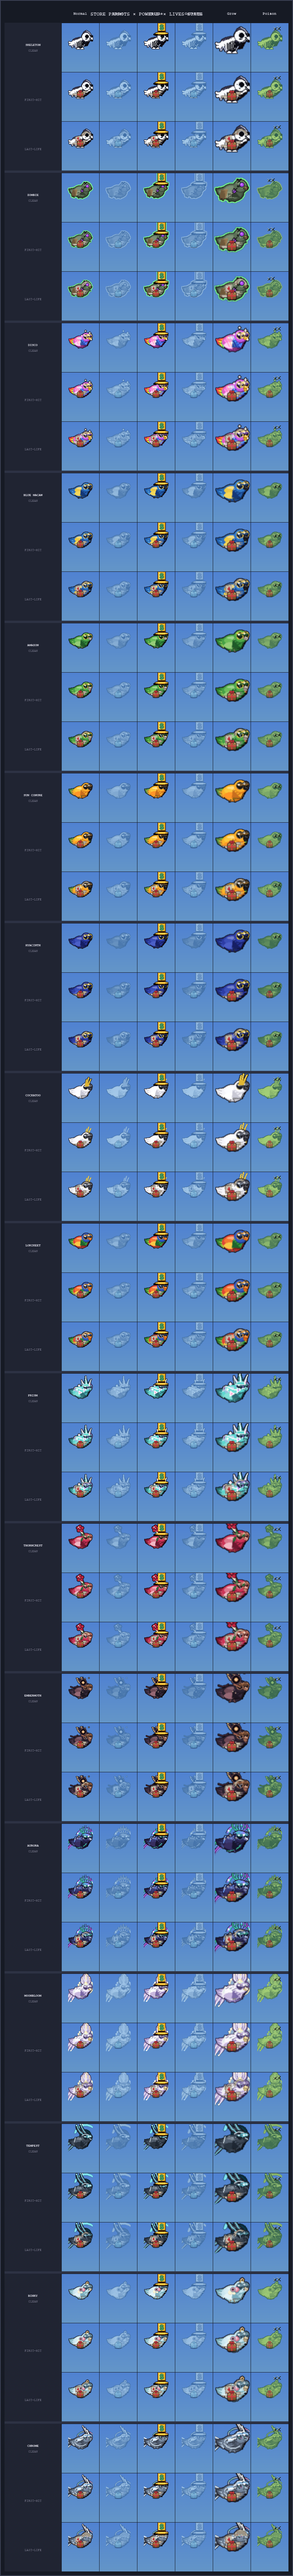
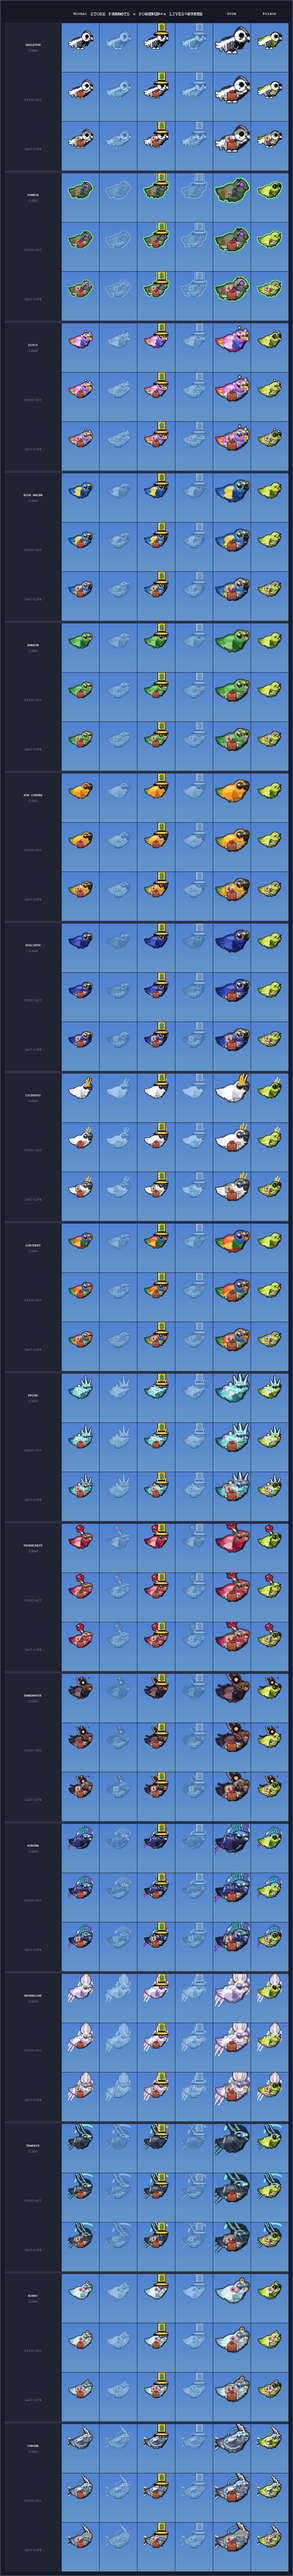
Rebuild Poison column with chartreuse body + skin accessories
Replace the tint approach with a proper palette rebuild:
- No-element skins (bluegold, amazon, sunconure, hyacinth, lorikeet):
  use existing P_CHARTREUSE macaw + X-eyes (unchanged from original)
- Element skins (zombie, skeleton, disco, cockatoo, aurora, etc.):
  build P_CHARTREUSE body as the poison base, then composite the skin's
  own accessories (aura rings, bones, crest, wings, paint_fn/back_fn)
  on top + X-eyes — matching the user's intent of "same poison appearance
  but with their elements"

Restores _build_poison_hurt for no-element skins; adds _build_poison_skin
for element skins with skeleton/zombie/composite code paths.

Changed region(s): [[0.8682, 0.0, 0.9612, 0.9979]]

diff --git a/docs/render_store_skin_powerup_lives_grid.py b/docs/render_store_skin_powerup_lives_grid.py
@@ -151,35 +151,113 @@ def _ghost_tint(img):
         img.set_alpha(170)
 
 
-def _poison_tint(img):
-    """Colorize to chartreuse preserving per-pixel luminance; handles SRCALPHA."""
-    arr = sa.pixels3d(img)
-    f = arr.astype(np.float32)
-    lum = f[:, :, 0] * 0.299 + f[:, :, 1] * 0.587 + f[:, :, 2] * 0.114
-    lum_n = lum / 255.0
-    dark   = np.array([30,  75, 10], np.float32)
-    bright = np.array([200, 240, 75], np.float32)
-    for c in range(3):
-        f[:, :, c] = dark[c] + lum_n * (bright[c] - dark[c])
-    arr[:] = f.clip(0, 255).astype(np.uint8)
-    del arr
-    if img.get_flags() & pygame.SRCALPHA:
-        alpha = sa.pixels_alpha(img)
-        alpha[:] = (alpha.astype(np.float32) * (170 / 255)).clip(0, 255).astype(np.uint8)
-        del alpha
+def _build_poison_hurt(lives_state):
+    """Chartreuse macaw + lives dressings + X-eyes. For no-element skins."""
+    if lives_state == "last_life":
+        base = _build_parrot_with_palette(10.0, P_CHARTREUSE, draw_lenses=False)
+        _h_draw_bandaids(base)
+        _h_draw_headwrap(base)
+        _h_draw_chest_dressing(base)
+        _h_draw_ragged_cuts(base)
+        _h_draw_cracked_lens(base)
     else:
-        img.set_alpha(170)
+        base = _build_parrot_with_palette(10.0, P_CHARTREUSE, draw_lenses=False)
+        _h_draw_bandaids(base)
+        _fh_draw_single_crack(base)
+    _draw_b_x_eyes(base)
+    return _add_outline(base)
 
 
-def _draw_x_eyes_outlined(surf):
-    """X-eyes drawn at outline-padded coordinates (LENS_L/R + 2px each axis)."""
-    ink   = (20, 25, 15)
-    glint = (245, 245, 200)
-    for (fx, fy), r in (((48, 22), 3), ((58, 21), 4)):
-        pygame.draw.line(surf, ink, (fx - r, fy - r), (fx + r, fy + r), 2)
-        pygame.draw.line(surf, ink, (fx - r, fy + r), (fx + r, fy - r), 2)
-        pygame.draw.line(surf, glint, (fx - r, fy - r - 1), (fx - 1, fy - 2), 1)
-        pygame.draw.line(surf, glint, (fx - r, fy + r - 1), (fx - 1, fy), 1)
+def _build_poison_skin(palette, paint_fn, back_fn, outline_color, draw_std_lenses,
+                       special, lives_state):
+    """Poison visual for element skins: P_CHARTREUSE body + skin accessories + X-eyes."""
+    if special == "skeleton":
+        comp = pygame.Surface((64, 100), pygame.SRCALPHA)
+        body = _build_parrot_with_palette(10.0, P_CHARTREUSE,
+                                          draw_lenses=(lives_state == "clean"))
+        comp.blit(body, (0, PARROT_DY))
+        _skeleton_paint(comp, 10.0)
+        sprite = comp.subsurface((0, PARROT_DY, 64, 60))
+        if lives_state == "clean":
+            _eye_socket(comp)
+        elif lives_state == "first_hit":
+            _h_draw_bandaids(sprite)
+            _fh_draw_single_crack(sprite)
+        else:
+            _h_draw_bandaids(sprite)
+            _h_draw_headwrap(sprite)
+            _eye_socket(comp)
+            _h_draw_chest_dressing(sprite)
+            _h_draw_ragged_cuts(sprite)
+        _draw_b_x_eyes(sprite)
+        return _add_outline(comp)
+
+    if special == "zombie":
+        base = _build_parrot_with_palette(10.0, P_CHARTREUSE,
+                                          draw_lenses=(lives_state == "clean"))
+        if lives_state == "first_hit":
+            _h_draw_bandaids(base)
+            _fh_draw_single_crack(base)
+        elif lives_state == "last_life":
+            _h_draw_bandaids(base)
+            _h_draw_headwrap(base)
+            _h_draw_chest_dressing(base)
+            _h_draw_ragged_cuts(base)
+        _draw_b_x_eyes(base)
+        core = _add_outline(base)
+        pad = 16
+        cw, ch = core.get_size()
+        out = pygame.Surface((cw + pad * 2, ch + pad * 2), pygame.SRCALPHA)
+        _zb_hex_aura(out, out.get_width() // 2, out.get_height() // 2 + 4,
+                     max(cw, ch) // 2 + 6)
+        ring = _zb_rim_halo(core)
+        out.blit(ring, (pad - 2, pad - 2))
+        out.blit(core, (pad, pad))
+        return out
+
+    # Standard composite skins: chartreuse base + paint_fn + back_fn
+    if lives_state == "clean":
+        body = _build_parrot_with_palette(10.0, P_CHARTREUSE)
+        comp = pygame.Surface((64, 100), pygame.SRCALPHA)
+        comp.blit(body, (0, PARROT_DY))
+        if paint_fn:
+            paint_fn(comp, 10.0)
+        sprite = comp.subsurface((0, PARROT_DY, 64, 60))
+        _draw_b_x_eyes(sprite)
+    else:
+        is_last = (lives_state == "last_life")
+        body = _build_parrot_with_palette(10.0, P_CHARTREUSE, draw_lenses=False)
+        comp = pygame.Surface((64, 100), pygame.SRCALPHA)
+        comp.blit(body, (0, PARROT_DY))
+        if paint_fn:
+            paint_fn(comp, 10.0)
+        sprite = comp.subsurface((0, PARROT_DY, 64, 60))
+        if is_last:
+            _h_draw_bandaids(sprite)
+            _h_draw_headwrap(sprite)
+            if draw_std_lenses:
+                _draw_lenses(sprite, 50, 20, P_CHARTREUSE)
+            _open_beak(sprite, P_CHARTREUSE)
+            _h_draw_chest_dressing(sprite)
+            _h_draw_ragged_cuts(sprite)
+            _h_draw_cracked_lens(sprite)
+        else:
+            _open_beak(sprite, P_CHARTREUSE)
+            _h_draw_bandaids(sprite)
+            _fh_draw_single_crack(sprite)
+        _draw_b_x_eyes(sprite)
+
+    kw = {"outline_color": outline_color} if outline_color else {}
+    outlined = _add_outline(comp, **kw)
+    if back_fn is None:
+        return outlined
+    pad = (outlined.get_width() - 64) // 2
+    result = pygame.Surface(outlined.get_size(), pygame.SRCALPHA)
+    back = pygame.Surface((64, 100), pygame.SRCALPHA)
+    back_fn(back, 10.0)
+    result.blit(back, (pad, pad))
+    result.blit(outlined, (0, 0))
+    return result
 
 
 # ── skin raw composite (unoutlined, for hat insertion) ────────────────────────
@@ -371,21 +449,19 @@ def render_cell(skin_id, palette, paint_fn, back_fn, outline_color,
                 center=(CELL_W // 2, BIRD_Y + int(PARCEL_Y_OFFSET * GROW_SCALE))))
         return cell
 
-    # ── poison (skin-aware: tint each skin's own frame to chartreuse + X-eyes) ──
+    # ── poison: chartreuse macaw base; element skins add their accessories ──
     if effect == "poison":
-        if lives_state == "clean":
-            img = _parrot.get_skin_frame(skin_id, 1, 0.0).copy()
-        elif lives_state == "first_hit":
-            img = _parrot.get_skin_first_hit_frame(skin_id, 1, 0.0).copy()
+        has_elements = (paint_fn is not None or back_fn is not None
+                        or special is not None)
+        if not has_elements:
+            if lives_state == "clean":
+                img = _parrot.get_poisoned_parrot(1, 0.0)
+            else:
+                img = _build_poison_hurt(lives_state)
         else:
-            img = _parrot.get_skin_hurt_frame(skin_id, 1, 0.0).copy()
-        _poison_tint(img)
-        _draw_x_eyes_outlined(img)
+            img = _build_poison_skin(palette, paint_fn, back_fn, outline_color,
+                                     draw_std_lenses, special, lives_state)
         cell.blit(img, img.get_rect(center=(CELL_W // 2, BIRD_Y)))
-        if is_hurt:
-            par = get_parcel("normal").copy()
-            par.set_alpha(170)
-            cell.blit(par, par.get_rect(center=(CELL_W // 2, BIRD_Y + 12)))
         return cell
 
     return cell
